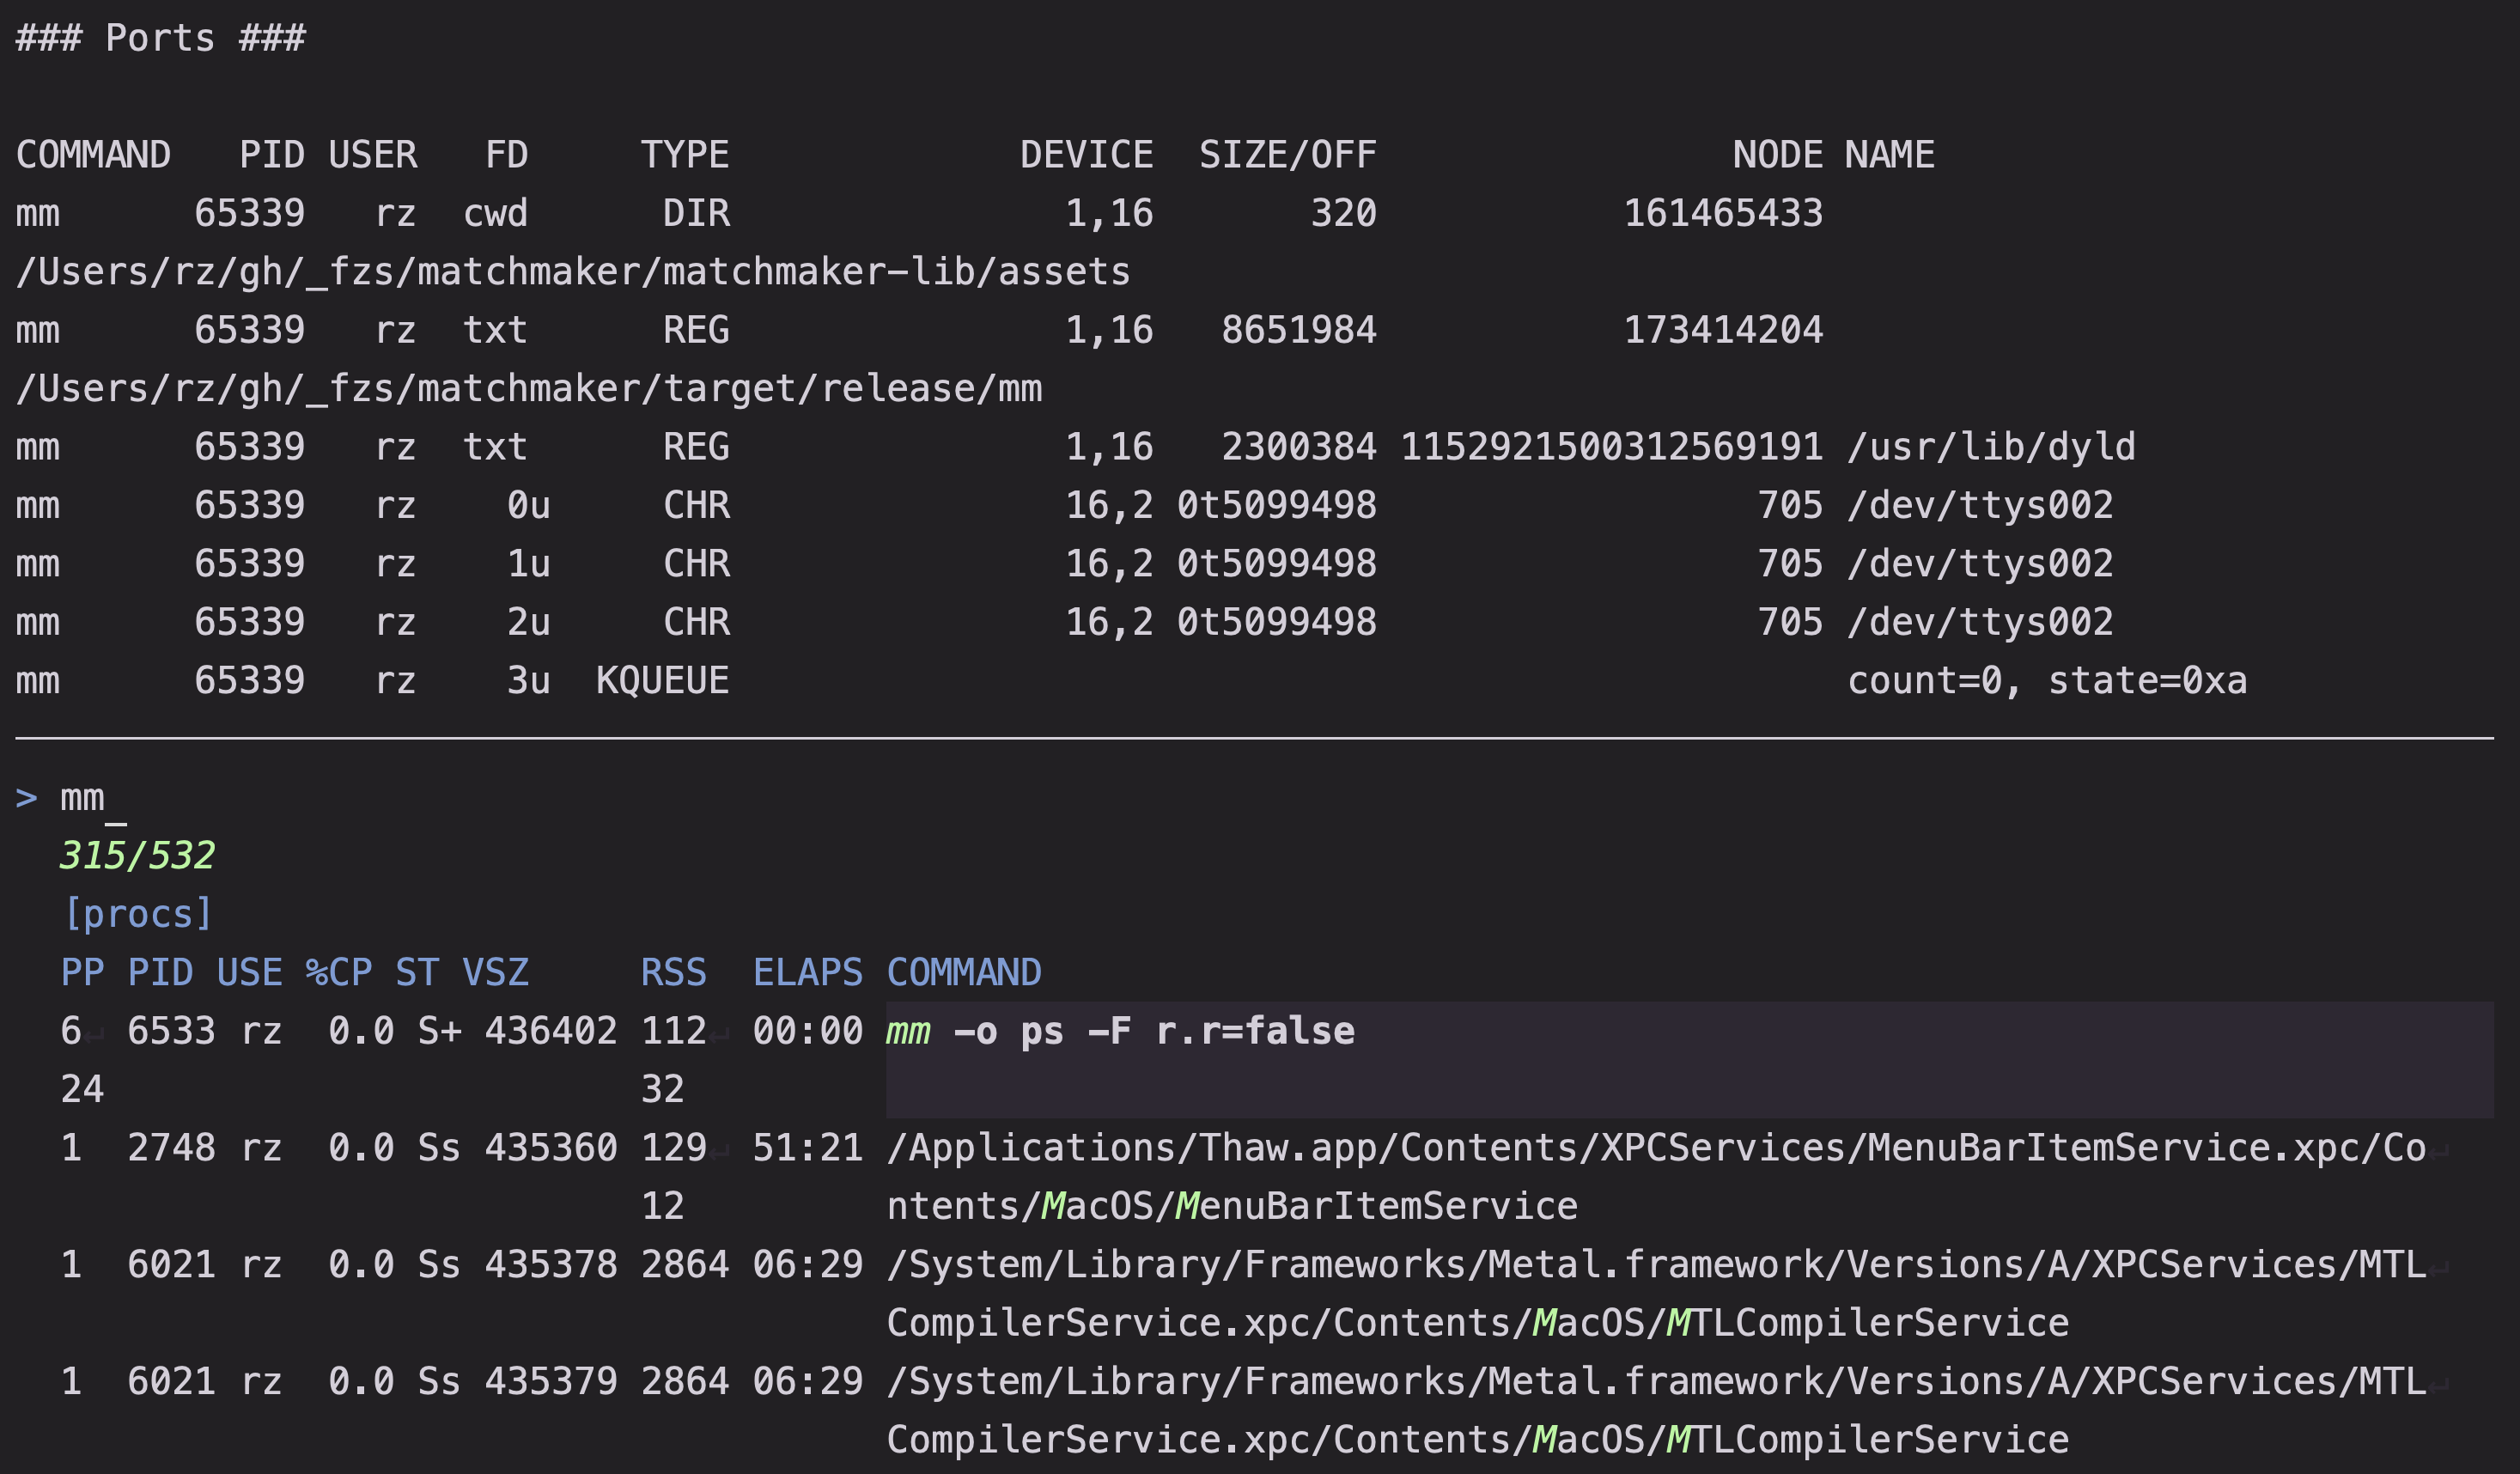
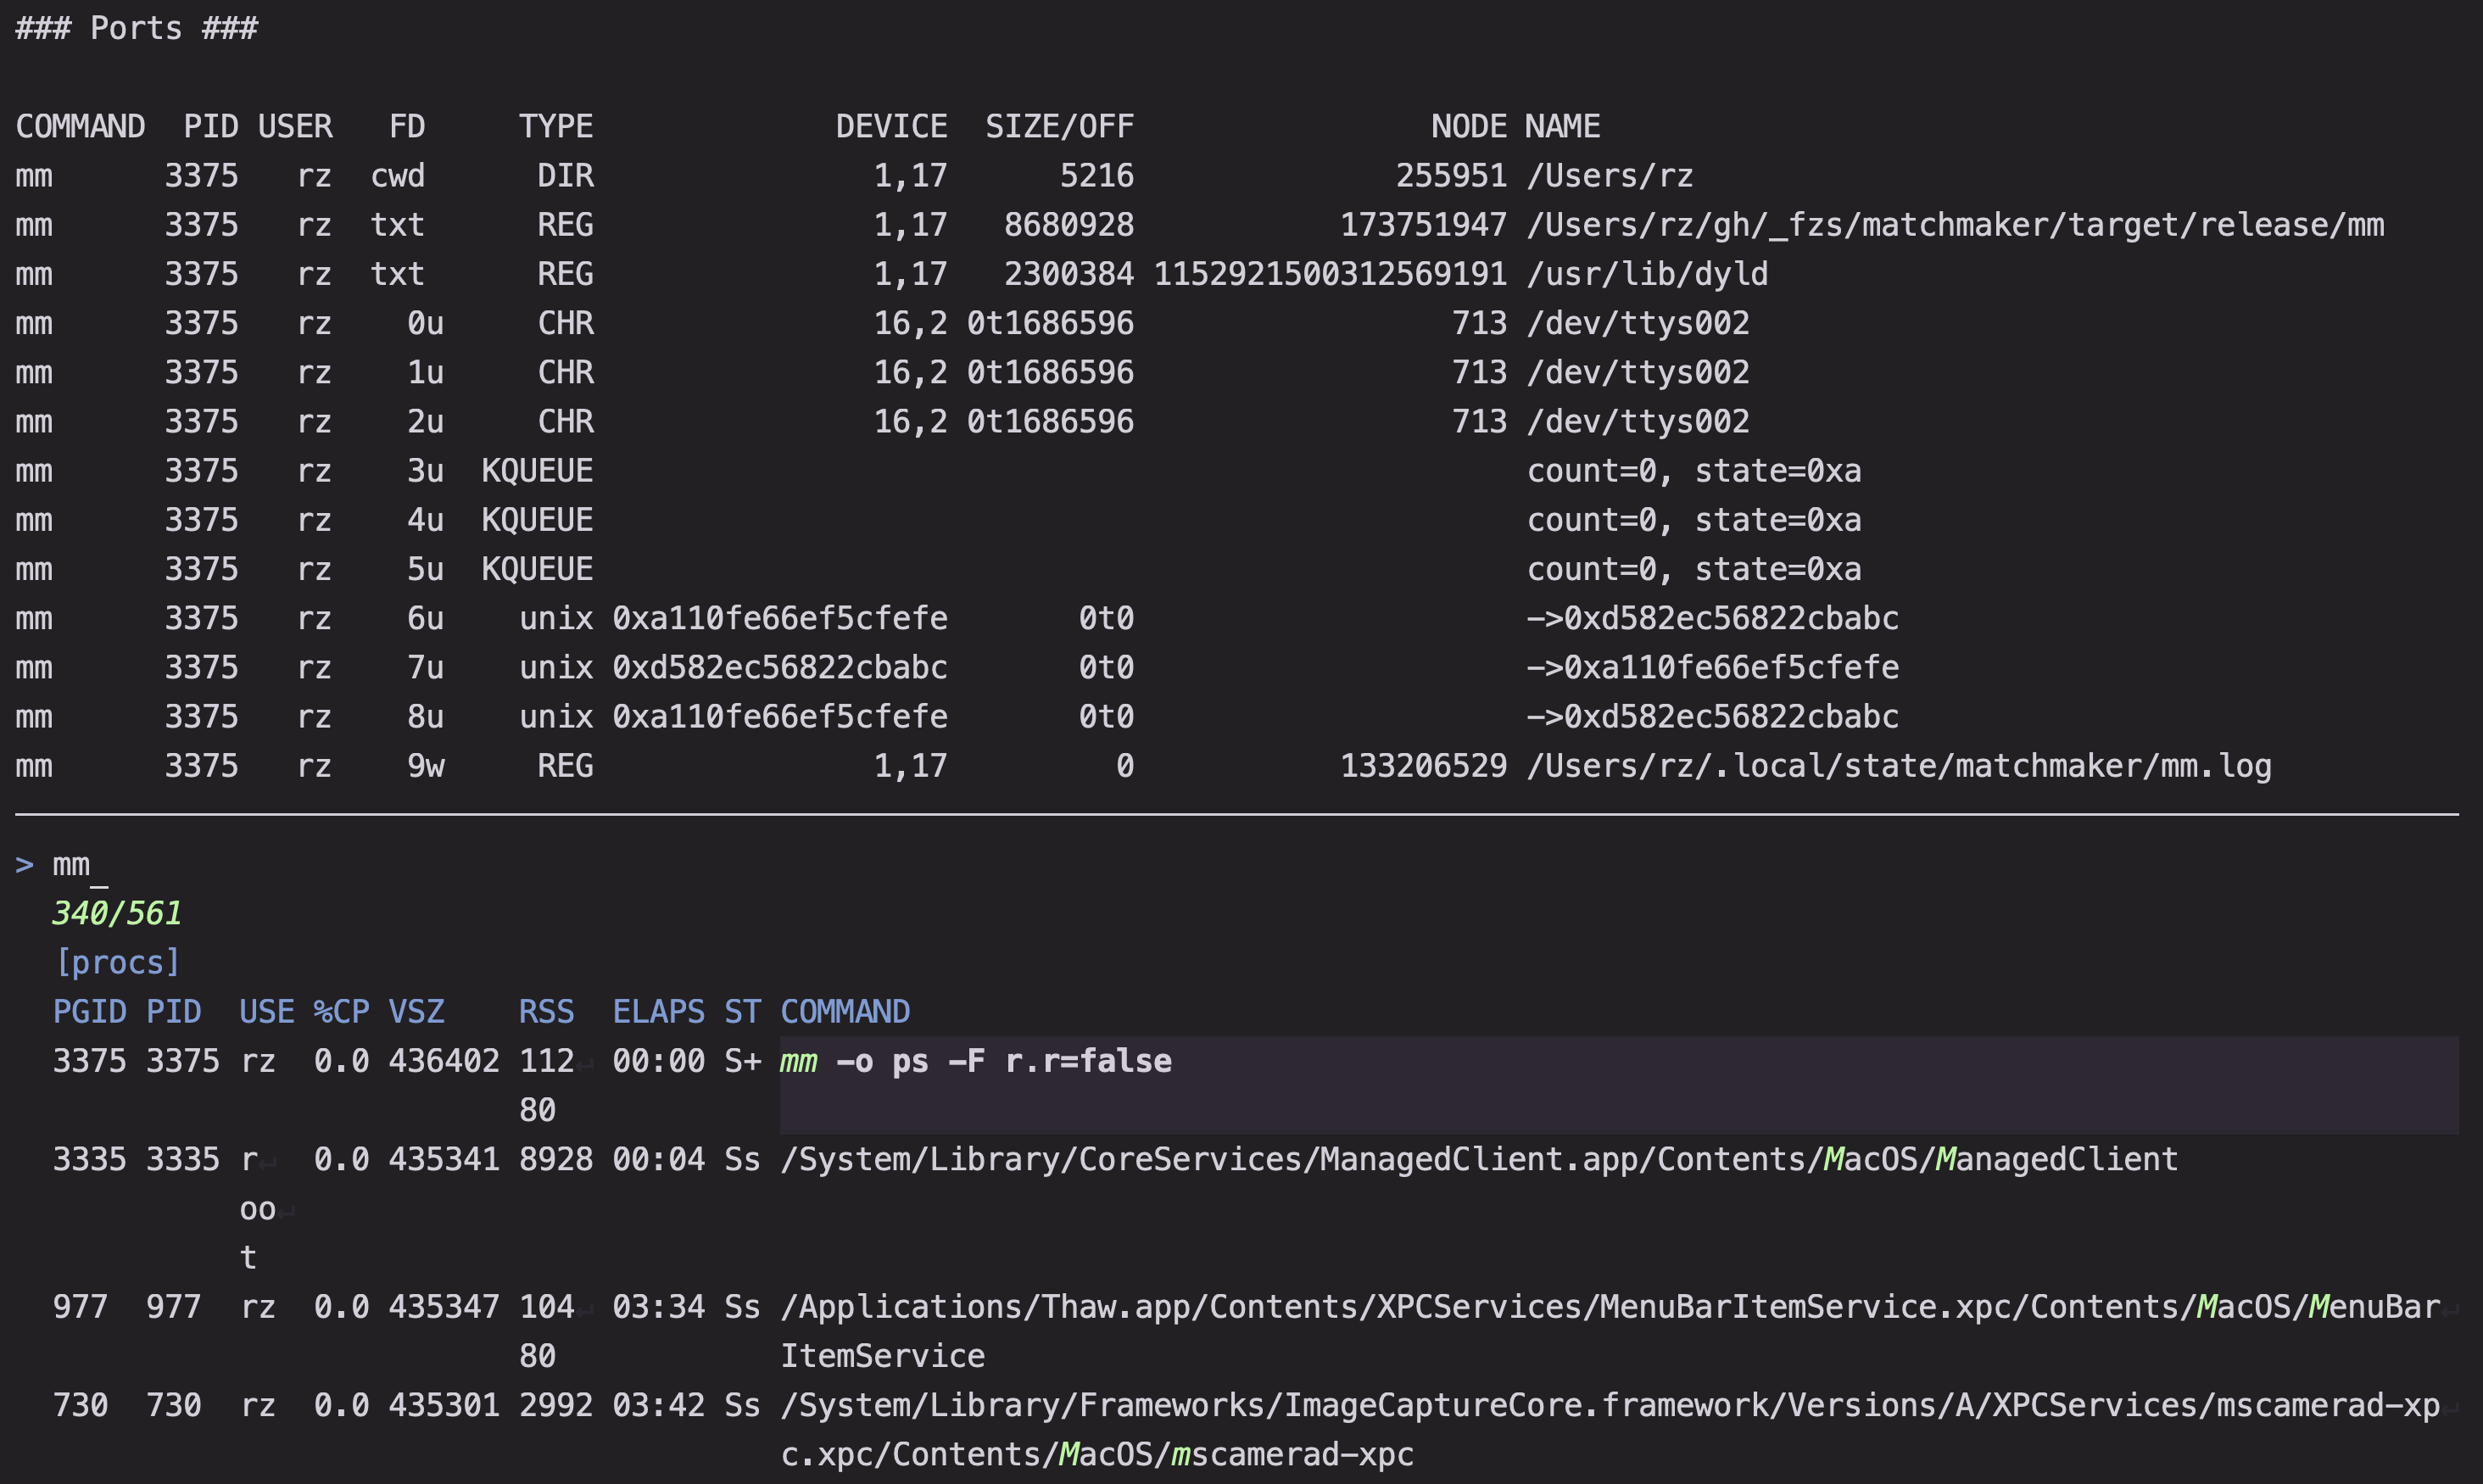
fix: bugfixes and improvements

Changed region(s): [[0.0, 0.0618, 0.9945, 0.9883], [0.0, 0.0, 0.1243, 0.0309]]

diff --git a/matchmaker-lib/src/render/state.rs b/matchmaker-lib/src/render/state.rs
@@ -1,3 +1,4 @@
+use bitflags::Flags;
 use cba::{bait::TransformExt, broc::EnvVars, env_vars, unwrap};
 use ratatui::text::Text;
 
@@ -266,13 +267,12 @@ impl State {
         }
     }
 
-    fn reset(&mut self) {
-        // nothing
+    pub(crate) fn reset(&mut self) {
+        self.events.clear();
     }
 
-    pub(crate) fn events(&mut self) -> Event {
-        self.reset();
-        std::mem::take(&mut self.events)
+    pub fn events(&mut self) -> Event {
+        self.events.clone()
     }
 }
 

diff --git a/matchmaker-lib/src/matchmaker.rs b/matchmaker-lib/src/matchmaker.rs
@@ -843,7 +843,13 @@ pub fn make_previewer<T: SSS, S: Selection + 'static>(
     let formatter_clone = formatter.clone();
 
     // preview handler
+    // important that PreviewSet events don't accidentally trigger this!
     mm.register_event_handler(Event::CursorChange | Event::PreviewChange | Event::Synced, move |state, _| {
+            // don't clobber previewset events
+            if state.contains(Event::PreviewSet) {
+                // code logic-wise, recieve PreviewSet::None semantically => will recieve PreviewMessage::Unset => we should skip anyways (events is immutable), altho semantically such a state should actually trigger a new preview tho it would be niche
+                return;
+            }
             if state.preview_visible() &&
             let m = state.preview_payload().clone()
             {
@@ -886,7 +892,6 @@ pub fn make_previewer<T: SSS, S: Selection + 'static>(
     mm.register_event_handler(Event::PreviewSet, move |state, _event| {
         if state.preview_visible() {
             let payload = state.preview_set_payload();
-            log::trace!("Recieved PreviewSet: {payload:?}");
             let msg = match payload {
                 Some(Err(m)) => {
                     let m = if is_empty(&m) && !help_str.lines.is_empty() {

diff --git a/matchmaker-cli/src/register.rs b/matchmaker-cli/src/register.rs
@@ -25,7 +25,11 @@ impl<T: SSS, S: Selection + 'static> Matchmaker<T, S> {
                 }
                 let mut vars = state.make_env_vars();
 
-                let preview_template = state.preview_payload().clone();
+                let preview_template = if let Some(Ok(s)) = state.preview_set_payload() {
+                    s
+                } else {
+                    state.preview_payload().clone()
+                };
                 let preview_cmd = use_formatter(&formatter, state, &preview_template, None);
                 let extra = env_vars!(
                     "MM_PREVIEW_COMMAND" => preview_cmd,

diff --git a/matchmaker-lib/src/binds.rs b/matchmaker-lib/src/binds.rs
@@ -621,6 +621,10 @@ pub fn display_binds<A: ActionExt + Display>(
                 }
             }
 
+            if skipping && !last_trace.is_empty() {
+                visible_items.push(last_trace);
+            }
+
             (trigger, visible_items)
         })
         .collect();

diff --git a/matchmaker-lib/src/render/mod.rs b/matchmaker-lib/src/render/mod.rs
@@ -953,6 +953,7 @@ pub(crate) async fn render_loop<'a, W: Write, T: SSS, S: Selection, A: ActionExt
                 h(&mut dispatcher, &e)
             }
         }
+        state.reset();
 
         // ------------------------------
         // send events into controller

diff --git a/TODO.md b/TODO.md
@@ -2,32 +2,32 @@
 
 - it would be nice to have presets like full, simple, and minimal presets like fzf
 - it would be nice to have color presets too maybe
-- Examples:
-  - query change
-  - frecency
-  - api
-
+  
 - better hr styling (dim etc.)
 - ExecuteAsync: support chaining actions without blocking ui
   - Slightly tricky because to expose this to dynamic handlers this needs go in state, but state is not generic over action. Idea is to create a static Mutex<hashmap<u8, Vec<Box<dyn<Action>>>> in state, add methods to Actions converting between x: Actions and this type erased vec, and dispatcher method which accepts an Actions and a discriminant and adds it to the concurrent hashmap, and a method which gets from the hashmap and downcasts to original type.
   - save remaining, execute_handler for the ExecuteAsync interrupt: pop the latest to variable, tokio spawn: tokio await cmd completion then reseed actions to render_tx.
-
 - ExecuteThen: Transmits to ExecuteAsync but with discriminant Some(1). This causes the handler to execute without spawning, then check wait.success. Only if succeed, reseed with remaining actions.
-- Finally, support reading from MM_INDEX for initialization when additional_commands.len() > 1
-
 - improve/test wrap_text and hscroll on non filtering
 - Bottom scroll padding not working with --reverse (maybe we want to increase self.cursor if height before is insufficient).
-- reload should send to preview_tx
-- vty to support animated previews
+- vty to support animated previews/sixel (will that do the trick? otherwise pipe should be more efficient).
 - improve restore: exit(clear: Option<bool>)
   - None: move up by input.y-area.y
   - true: move to area.y and clear
   - false: nothing
   - config.clear_on_exit: None -> true
 
-- MM_PREVIEW_COMMAND should reflect RunPreview in a consistent way
-- Improve BecomeSilent
 
+
+- MM_PREVIEW_COMMAND should reflect RunPreview in a consistent way: simply checking help_payload first should work, but should we leave an escape hatch (i think not?).
+
+- Document:
+  - ExpandPreview ShrinkPreview drag
+
+- Code examples:
+  - query change
+  - frecency
+  - api
 # Previewer
 
 - Offload large previews to disk
@@ -47,7 +47,7 @@
 # Columns
 
 - (fist: lowpri): execute: use of {\*} in place of {+}: execute once for each selected
-- constraint: Min/Percent
+- constraint: Min/Percent, use header to set min width?
 
 # Bugs
 
@@ -75,3 +75,6 @@
 - descriptions to override help actions
 - switch preset can read remote from {$1} instead of assuming origin
 - flicker-free reload: before interrupt save results or something + pause events?
+- Improve BecomeSilent to further reduce flickering (is it even possible?)
+- reload should send to preview_tx (why did i add this?)
+- very very minor perf improvement, prevent duplicate dynamic handler calls somehow?

diff --git a/matchmaker-cli/README.md b/matchmaker-cli/README.md
@@ -13,7 +13,8 @@ It takes inspiration from [fzf](https://github.com/junegunn/fzf) in features and
 - A minimal yet powerful [syntax](./matchmaker-cli/assets/docs/options.md) for overriding the configuration on the command line.
 - Interactive preview supports color, scrolling, wrapping, multiple layouts, and even maximizing.
 - Most of the familiar actions from [fzf](https://github.com/junegunn/fzf), as well as several new ones[^12].
-- Mouse (location aware) scrolling! Horizontal scrolling! Grapheme-aware input wrapping!
+- Mouse (location aware) scrolling! Drag to resize! Horizontal scrolling!
+- Grapheme-width correct input wrapping!
 - Nice text wrapping and width sizing.
 - Split input lines into multiple columns, that you can individually filter on (`%col query`[^17]), hide, and highlight.[^14]
 - Split input lines by *regex capture groups*.
@@ -89,6 +90,7 @@ wrap = true
 header_lines = 3 # sticky the top 3 lines
 
 # Full specification of (the default values of) a single layout. Multiple layouts can be specified.
+# Previews can also be adjusted on the fly (by dragging).
 [[preview.layout]]
 command = ""
 side = "right"

diff --git a/matchmaker-lib/ARCHITECTURE.md b/matchmaker-lib/ARCHITECTURE.md
@@ -46,6 +46,9 @@ For example, the `Preview(bat {})` command generates a `PreviewChange` event, an
 
 For more specific requirements, the set of actions can be extended with a type implementing `ActionExt`, on which a handler with mutable access to the UI state can be registered. Additionally, [`PickOptions`](./src/matchmaker.rs#L417) also supports registering an [`ext_aliaser`](./src/matchmaker.rs#L481-L484) which can be used transform actions before they are processed.
 
+> [!NOTE]
+> Event is a bitflag but each event handler is called for each event it listens to
+
 ### State
 
 All of the customizable handlers take a `MMState`, which contains data and mutable access to the picker, such as the input text, header text, the matcher worker, and all UI configuration options.